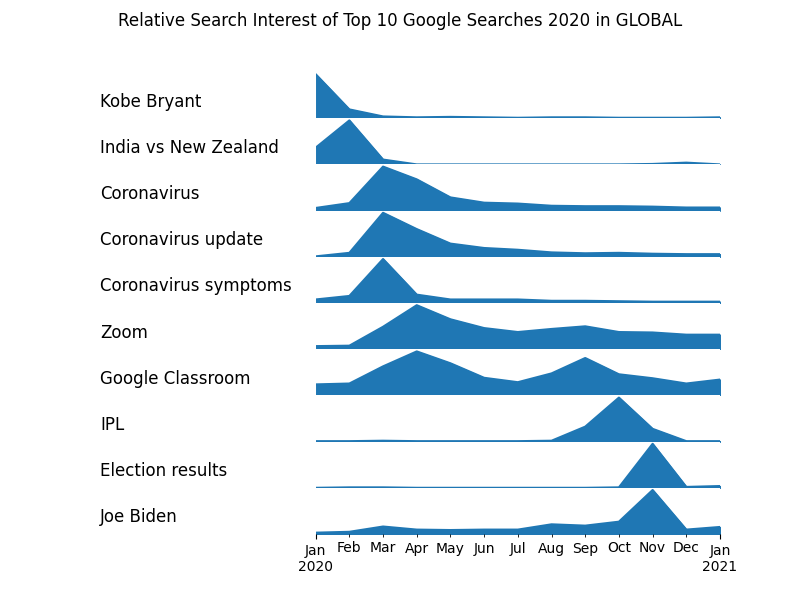
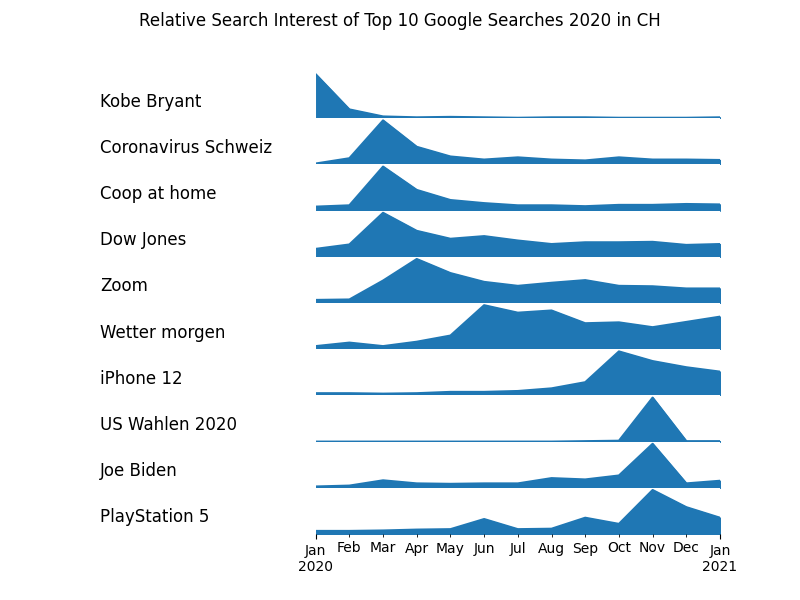
Added usage example.

diff --git a/README.md b/README.md
@@ -1,6 +1,5 @@
 # Google Trend Analysis
-This script shows the most popular search terms for specific languages, regions and years. They are arranged chronologically based on the month of highest relative popularity. Here, an example: 
-![example_trends](example.png)
+This script shows the most popular search terms for specific languages, regions and years. They are arranged chronologically based on the month of highest relative popularity. 
 
 ## Options
 <table>
@@ -21,3 +20,12 @@ This script shows the most popular search terms for specific languages, regions 
 ## Dependencies
 * __pytrends__ is used to get the information
 * __matplotlib__ is used to generate the plot
+
+## Example
+Let's display the most popular _german_ search terms in _Switzerland_ for the year _2020_: 
+```
+python toptrends.py --year 2020 --language de --region CH
+```
+
+The result should look like this: 
+![example_trends](example.png)
